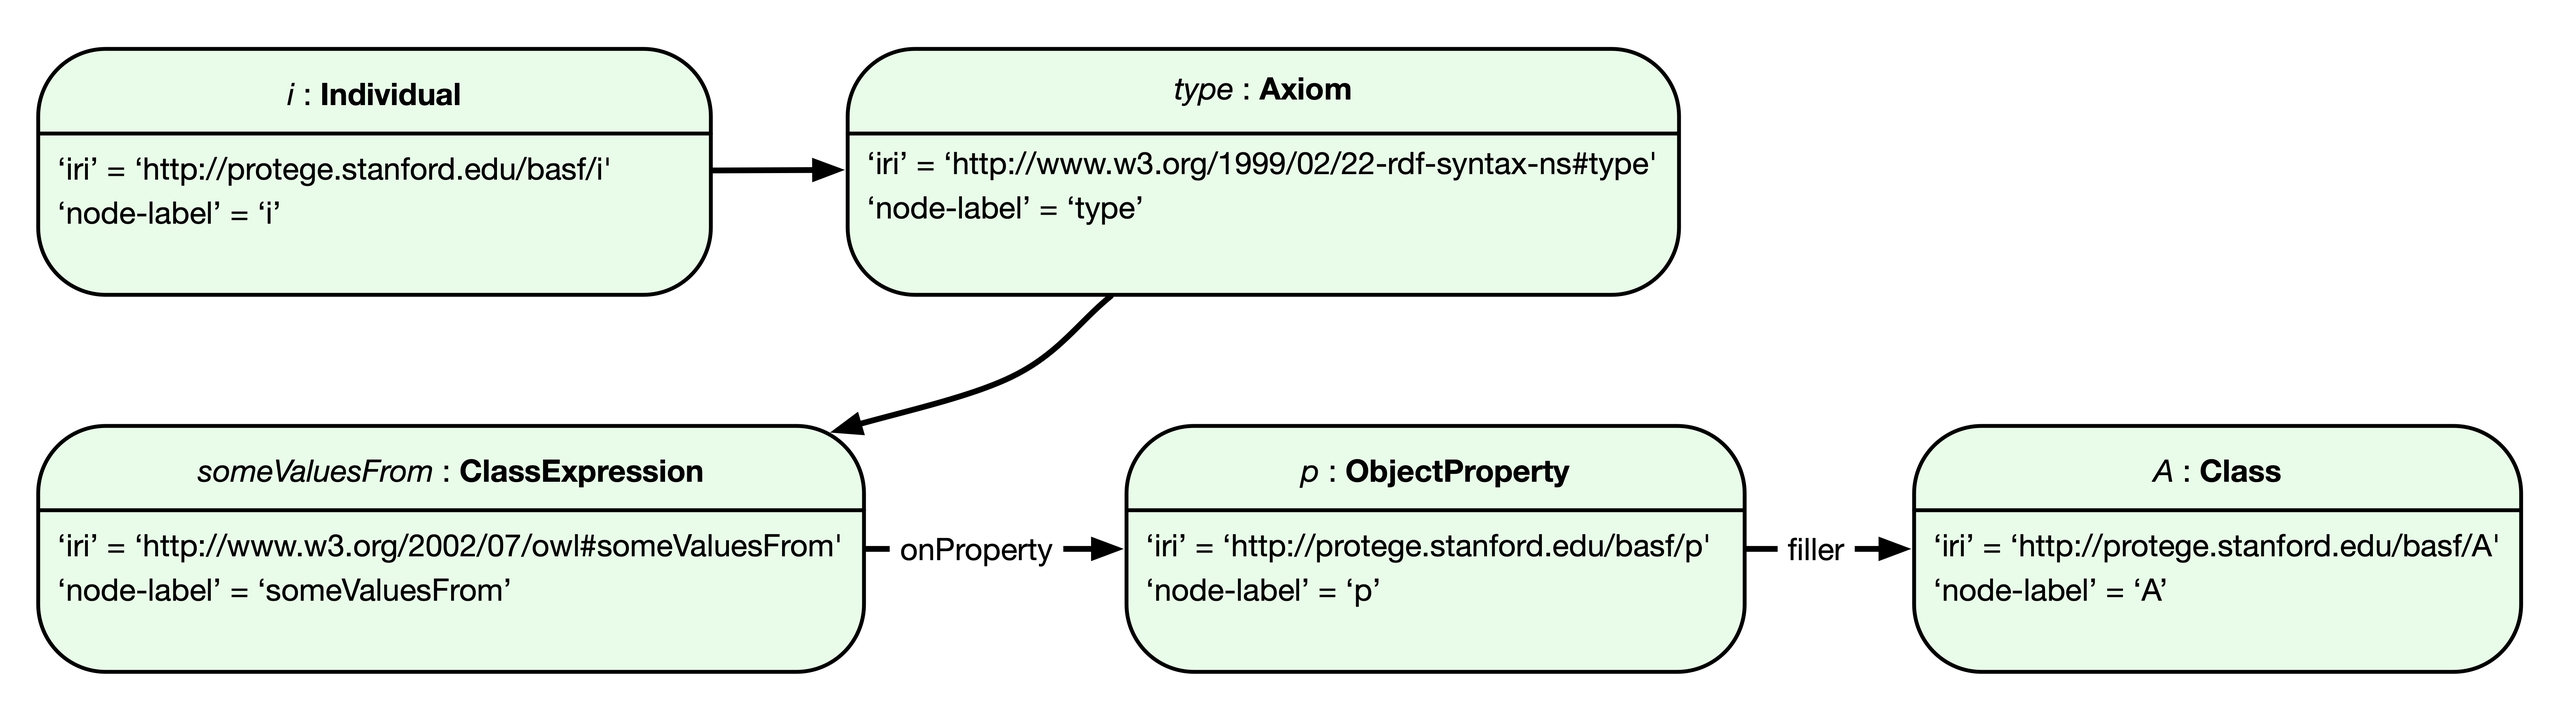
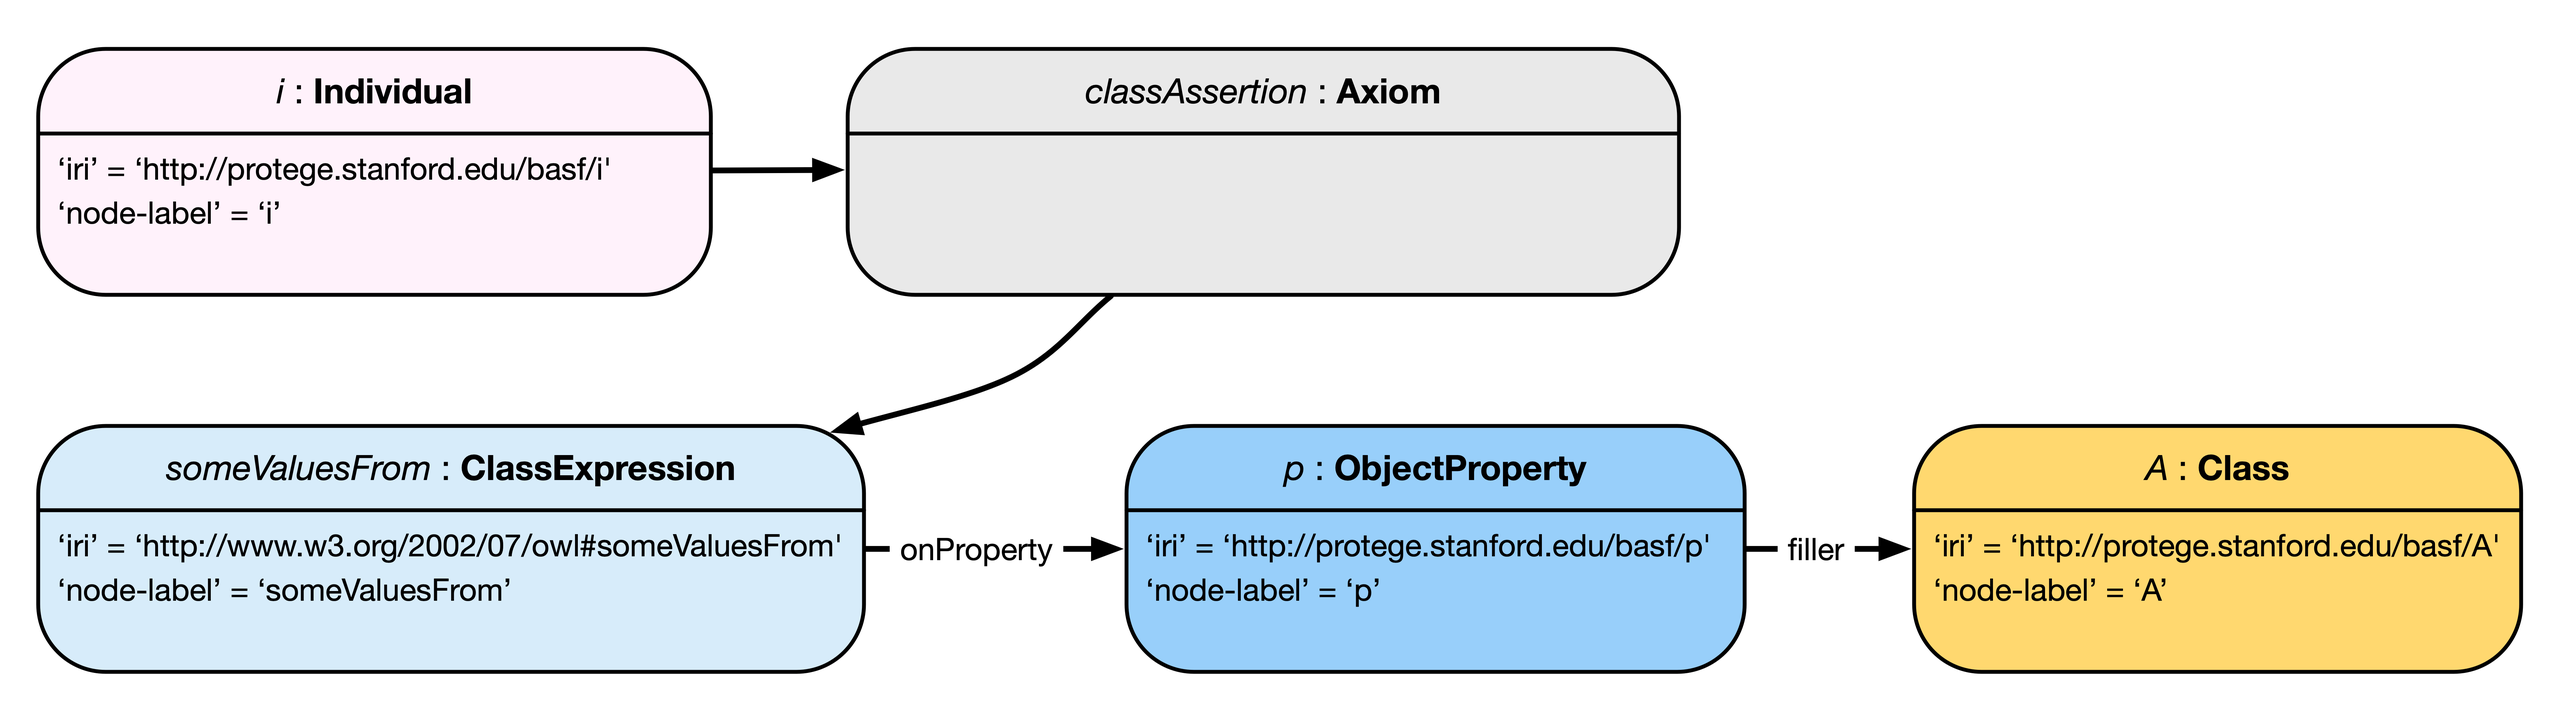
Added color scheme. Fixed TransitiveProperty diagram

diff --git a/index.html b/index.html
@@ -11,7 +11,7 @@
  <body class="h-entry">
   <div class="head">
    <h1 id="title">Draft Specification: Conversion of OWL 2 EL Ontologies to Labeled Property Graphs</h1>
-   <h2 id="subtitle">Working Draft, Updated: <time class="dt-updated" datetime="2020-02-25">25 February 2020</time></h2>
+   <h2 id="subtitle">Working Draft, Updated: <time class="dt-updated" datetime="2020-02-26">26 February 2020</time></h2>
    <div>
     <dl>
      <dt>Feedback:
@@ -293,6 +293,10 @@ Example queries:
 <span class="secno">3 </span> Transformation of OWL to Labeled Property Graph</h2>
    <p>In this section we outline the transformation of OWL axioms and class expressions (expressible in EL) to a labeled property graph model.</p>
 
+   <p id="color-scheme">
+    Throughout this section we use the color scheme depicted below to denote the different types of OWL entities (left column) and other OWL resources (right column): types of axioms (e.g., <code>subClassOf, classAssertion</code>); types of class expressions (e.g., <code>someValuesFrom, intersectionOf</code>); literals; ontologies; and IRI resources.
+    <figure><img src="images/color-legend.png" width="400px"></figure>
+   </p>
 
    <!-- CLASS AXIOMS -->
    <h3 id="class-axioms"><span class="secno">3.1 </span> Class Axioms</h3>
@@ -511,11 +515,13 @@ Example queries:
 
   This section exemplifies how the axiom conversions specified above would concretize for a set of axioms. Given the axioms below, the resulting LPG is depicted in <a href="#multiple-axioms-lpg">Figure 19</a>.
 
-   <p class="example" id="example-multiple-axioms-1"> EquivalentClasses( :A :E )</p>
-   <p class="example" id="example-multiple-axioms-2"> SubClassOf(<br><span class="indent">Annotation( dc:creator :rsgoncalves )</span><br><span class="indent">Annotation( dc:date "2020-02-25T21:20:36"^^xsd:dateTime )</span><br><span class="indent">:A :C )</span></p>
-   <p class="example" id="example-multiple-axioms-3"> SubClassOf(<br><span class="indent">Annotation( dc:date "2020-02-25T21:32:52"^^xsd:dateTime )</span><br><span class="indent">:A ObjectSomeValuesFrom( :p :D ))</span></p>
-   <p class="example" id="example-multiple-axioms-4"> AnnotationAssertion( skos:definition :B "Bees are flying insects."@en )</p>
-   <p class="example" id="example-multiple-axioms-5"> SubClassOf(<br><span class="indent">Annotation( dc:creator :mhorridge )</span><br><span class="indent">:B ObjectIntersectionOf( :A ObjectSomeValuesFrom( :p :F )))</span></p>
+   <p class="example"> EquivalentClasses( :A :E )</p>
+   <p class="example"> SubClassOf(<br><span class="indent">Annotation( dc:date "2020-02-25T21:20:36"^^xsd:dateTime )</span><br><span class="indent">:A :C )</span></p>
+   <p class="example"> SubClassOf(<br><span class="indent">Annotation( dc:date "2020-02-25T21:32:52"^^xsd:dateTime )</span><br><span class="indent">:A ObjectSomeValuesFrom( :p :D ))</span></p>
+   <p class="example"> AnnotationAssertion( skos:definition :B "foo."@en )</p>
+   <p class="example"> SubClassOf(<br><span class="indent">Annotation( dc:creator :mhorridge )</span><br><span class="indent">:B ObjectIntersectionOf( :A ObjectSomeValuesFrom( :p :F )))</span></p>
+   <p class="example"> ObjectPropertyAssertion(<br><span class="indent">Annotation( dc:creator :rsgoncalves )</span><br><span class="indent">:w :mhorridge :stanfordUniversity)</span></p>
+   <p class="example"> ObjectPropertyAssertion(:w :rsgoncalves :stanfordUniversity)</p>
    <figure id="multiple-axioms-lpg">
     <img src="images/multiple-axioms.png">
     <figcaption><span class="marker">Figure 19</span> Representation of multiple OWL axioms in LPG model.</figcaption>
@@ -540,6 +546,11 @@ Example queries:
   In this section we record all major changes to the document, in reverse chronological order.
 
   <dl>
+  <dt><code>February 26, 2020</code></dt>
+  <dd>Updated section <a href="#multiple-axioms">Multiple Axioms</a>.</dd>
+  <dd>Added section <a href="#color-scheme">Color Scheme</a>.</dd>
+  <dd>Updated all diagrams with the color coding scheme described in section <a href="#color-scheme">Color Scheme</a>.</dd>
+
   <dt><code>February 25, 2020</code></dt>
   <dd>Added section <a href="#multiple-axioms">Multiple Axioms</a>.</dd>
 
